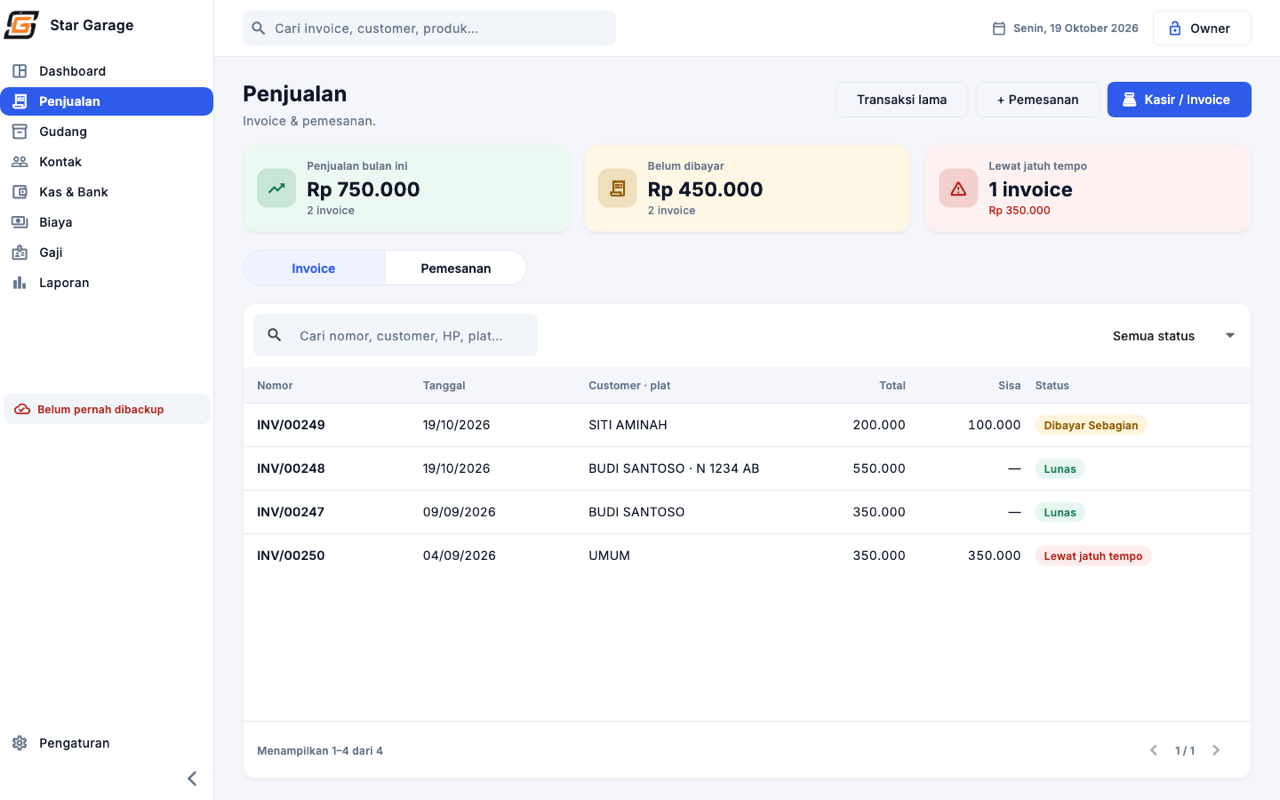
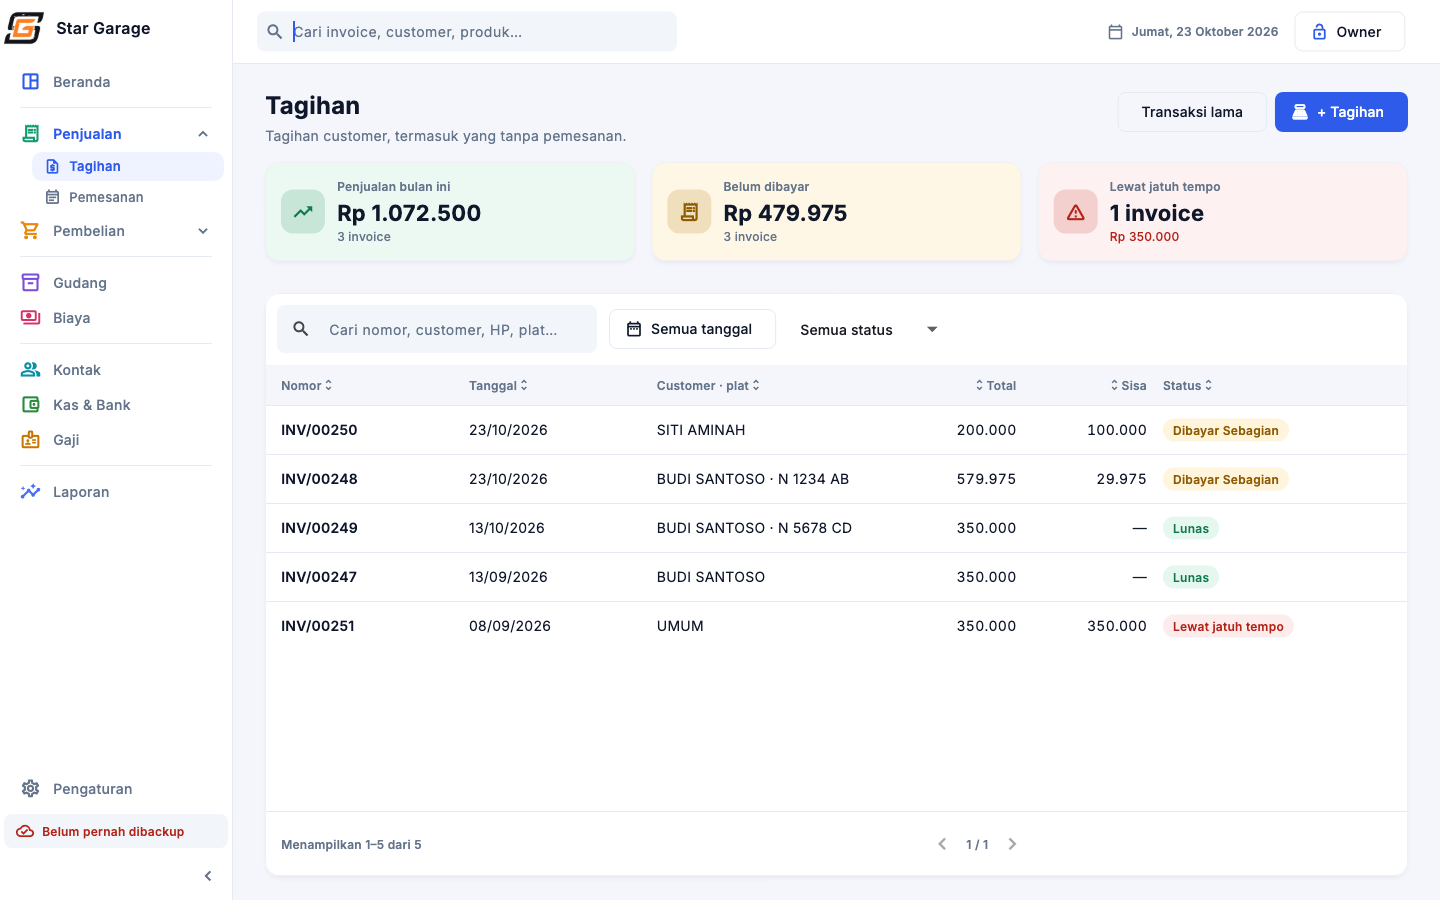
README & screenshot disegarkan: fitur R2/R3, 9 screenshot terbaru dari preview
Claude-Session: https://claude.ai/code/session_01FqBa2q389y5TiCzvy4Wom7

diff --git a/README.md b/README.md
@@ -1,10 +1,8 @@
 # Garage ERP
 
-Aplikasi desktop **macOS** untuk bengkel: kasir & invoice, stok, kas 4 rekening, biaya, gaji & insentif teknisi, dan laporan laba rugi. Dibangun untuk **Star Garage** (bengkel modifikasi & restorasi lampu mobil, member Yoong Motor Pasuruan) sebagai pengganti Kledo + beberapa Google Sheet.
+Aplikasi desktop **macOS** untuk bengkel: kasir & invoice, pemesanan, stok & pembelian, kas 4 rekening, biaya (termasuk biaya berulang), gaji & insentif teknisi, serta laporan keuangan & akuntansi (neraca, laba rugi, arus kas, buku besar, jurnal). Dibangun untuk **Star Garage** (bengkel modifikasi & restorasi lampu mobil, member Yoong Motor Pasuruan) sebagai pengganti Kledo + beberapa Google Sheet.
 
 **Offline, satu PC kasir, Rp 0/bulan:** tanpa server, domain, database berbayar, maupun langganan. Data tersimpan di SQLite lokal dengan backup otomatis.
-
-![Dashboard](docs/screenshots/dashboard-owner.png)
 
 ## Masalah yang diselesaikan
 
@@ -20,29 +18,38 @@ Aplikasi desktop **macOS** untuk bengkel: kasir & invoice, stok, kas 4 rekening,
 
 | Modul | Isi |
 |---|---|
-| **Dashboard** | Omzet hari/bulan ini (dibanding periode yang sama bulan lalu), invoice belum lunas & lewat tempo, stok menipis, grafik omzet 12 bulan, produk terlaris. Laba & saldo hanya untuk owner |
-| **Penjualan** | Kasir/invoice, pemesanan + DP → invoice, pembayaran bertahap per rekening + bukti, status Lunas/Dibayar Sebagian/Belum Lunas/Lewat tempo/Batal, nota PDF A4, kirim WhatsApp + link review Google Maps, input transaksi lama |
-| **Gudang** | Barang & jasa, stok dari buku stok (bukan angka yang diketik), pembelian stok, stok opname, import/export Excel format Kledo |
-| **Kontak** | Customer (nama, HP unik, mobil, plat), import Google Sheet dengan penggabungan HP sama, riwayat belanja, repeat order, top pelanggan |
-| **Kas & Bank** | Saldo BCA / Mandiri / ShopeePay / Tunai (khusus owner), mutasi + saldo berjalan, transfer antar rekening, modal masuk, arus kas harian–tahunan |
-| **Biaya** | Biaya operasional & pribadi per kategori, bukti pembayaran |
-| **Gaji** | Slip per periode (27–26), insentif per pekerjaan teknisi (dibagi dua bila dikerjakan berdua), tunjangan kerja sales % omzet, bayar → kas, export Excel |
-| **Laporan** | Laba rugi, penjualan per kategori, terlaris, arus kas; bulanan/tahunan; export Excel |
-| **Pengaturan** | Data bengkel & logo nota, nomor nota, folder simpan file, jadwal backup otomatis, PIN owner |
+| **Beranda** | 6 kartu ringkasan (omzet hari/bulan ini, belum lunas, laba bersih, saldo rekening, stok menipis), grafik omzet dan pemasukan-vs-pengeluaran dengan periode harian/bulanan/tahunan + rentang tanggal bebas, daftar belum lunas / terlaris / stok menipis. Laba & saldo hanya untuk owner |
+| **Penjualan** | **Tagihan** (invoice, termasuk tanpa pemesanan) dan **Pemesanan** (DP → invoice) sebagai dua halaman; pembayaran bertahap per rekening + bukti; status Lunas / Dibayar Sebagian / Belum Lunas / Lewat tempo / Batal; diskon (Rp/%) dan PPN opsional; nota PDF A4 dengan stempel LUNAS; kirim WhatsApp dengan template pesan + link review Google Maps; input transaksi lama; tambah barang/jasa baru langsung dari form (PIN owner) |
+| **Pembelian** | Riwayat pembelian stok (vendor, no. nota, foto nota, tgl beli & tgl lunas), pembelian belum dibayar → **Tagihan Pembelian** → lunasi |
+| **Gudang** | Barang & jasa, stok dari buku stok (bukan angka yang diketik), stok opname, riwayat stok yang bisa diklik ke invoice/pembelian, import (+ template)/export Excel format Kledo, kartu info stok & HPP. Invoice baru hanya menerima barang bersetok > 0 |
+| **Kontak** | Tiga tab: **Customer** (HP unik, mobil, plat, riwayat belanja, repeat order, top pelanggan, import Google Sheet), **Vendor**, **Pegawai** |
+| **Kas & Bank** | Saldo BCA / Mandiri / ShopeePay / Tunai (khusus owner), mutasi + saldo berjalan + export, transfer antar rekening, modal masuk, arus kas harian–tahunan |
+| **Biaya** | Biaya operasional & pribadi per kategori (pilih kategori dengan mengetik), bukti, **biaya berulang** (mis. uang transport per pegawai yang masuk) |
+| **Gaji** | Slip per periode (27–26) + **slip PDF**, insentif per pekerjaan teknisi (dibagi dua bila berdua), tunjangan kerja sales % omzet, bayar → kas, export Excel |
+| **Laporan** | **Keuangan:** neraca, arus kas, proyeksi arus kas, laba rugi, perubahan modal, ringkasan eksekutif. **Akuntansi** (dari jurnal turunan, tanpa input jurnal manual): ringkasan bank, buku besar, buku besar pembantu, jurnal, trial balance. **Penjualan & pembelian:** ringkasan, terlaris, detail. Semua bisa di-export ke Excel |
+| **Pengaturan** | Tiga tab: bengkel & nota, template pesan WhatsApp, folder file + jadwal backup + PIN owner |
 
-Fitur lintas modul: **cari global** (no. invoice, nama, HP, plat, produk), **PIN owner** untuk data sensitif (harga beli, modal, laba, saldo, gaji), dan notifikasi yang jelas (berhasil / periksa lagi / gagal).
+Fitur lintas modul:
+- **Tabel seragam:** cari, **urut naik/turun per kolom**, tombol **Reset**, rentang tanggal (pop-up 2 bulan dengan pilihan cepat), paginasi.
+- **Cari global** (no. invoice, nama, HP, plat, produk) dan **PIN owner** untuk data sensitif.
+- **Mode terkunci = hanya lihat;** kasir hanya boleh menambah penjualan, customer, dan biaya. Dijaga di lapisan data, bukan hanya tombol.
+- **Responsif sampai Split View** (jendela minimum 640×560, sidebar otomatis ciut).
 
 | | |
 |---|---|
-| ![Penjualan](docs/screenshots/penjualan.png) | ![Kasir](docs/screenshots/penjualan-kasir.png) |
+| ![Beranda](docs/screenshots/dashboard-owner.png) | ![Tagihan](docs/screenshots/penjualan.png) |
+| ![Form invoice](docs/screenshots/penjualan-kasir.png) | ![Pembelian](docs/screenshots/pembelian.png) |
+| ![Gudang](docs/screenshots/gudang.png) | ![Kontak](docs/screenshots/kontak.png) |
 | ![Kas & Bank](docs/screenshots/kas.png) | ![Laporan](docs/screenshots/laporan.png) |
+| ![Pengaturan](docs/screenshots/pengaturan.png) | |
 
 ## Teknologi
 
 - **Flutter 3.47** desktop (macOS; target Windows tersedia, belum dirilis)
 - **SQLite via [drift](https://drift.simonbinder.eu/)**: query bertipe, stream reaktif, migrasi
 - **GetX**: state & dependency injection
-- `pdf` (nota), `excel` (import/export), `fl_chart` (grafik), `file_selector`, `url_launcher`, `window_manager`
+- `pdf` (nota & slip), `excel` (import/export), `fl_chart` (grafik Beranda), `file_selector`, `url_launcher`, `window_manager`
+- Sidebar buatan sendiri (paket `sidebarx` dilepas: tidak mendukung pemisah/dropdown)
 - Font **Inter** dibundel (offline)
 
 ## Prinsip desain kode
@@ -55,10 +62,10 @@ Fitur lintas modul: **cari global** (no. invoice, nama, HP, plat, produk), **PIN
 ```
 lib/
 ├── main.dart              # inisialisasi, jendela, backup saat ditutup
-├── shell.dart             # sidebar, topbar, cari global
+├── shell.dart             # sidebar (dropdown), topbar, cari global
 ├── core/                  # tema, komponen UI, format Rupiah/tanggal, PIN owner, Excel, log error
 ├── db/database.dart       # semua tabel drift + pengaturan + backup
-└── modules/               # dashboard, penjualan, gudang, kontak, kas, biaya, gaji, laporan, pengaturan
+└── modules/               # dashboard, penjualan, pembelian, gudang, kontak, kas, biaya, gaji, laporan, pengaturan
 test/                      # test logika bisnis (drift in-memory)
 tool/preview/              # render layar ke PNG (golden) untuk cek UI tanpa menjalankan app
 tool/release_macos.sh      # build rilis + .dmg
@@ -105,7 +112,7 @@ Tanpa Apple Developer account. Pemasangan di Mac client: buka `.dmg` → seret k
 
 ## Status
 
-Semua modul rilis pertama selesai; detail per modul, jumlah test, dan backlog ada di [`PROGRESS.md`](PROGRESS.md). Kebutuhan lengkap ada di [`docs/PRD.md`](docs/PRD.md).
+Build **1.2.0+3**: semua modul R1 + masukan client R2 dan R3 selesai (90 test); detail per modul dan backlog ada di [`PROGRESS.md`](PROGRESS.md). Kebutuhan lengkap ada di [`docs/PRD.md`](docs/PRD.md), aturan tampilan di [`docs/design.md`](docs/design.md).
 
 ---
 
